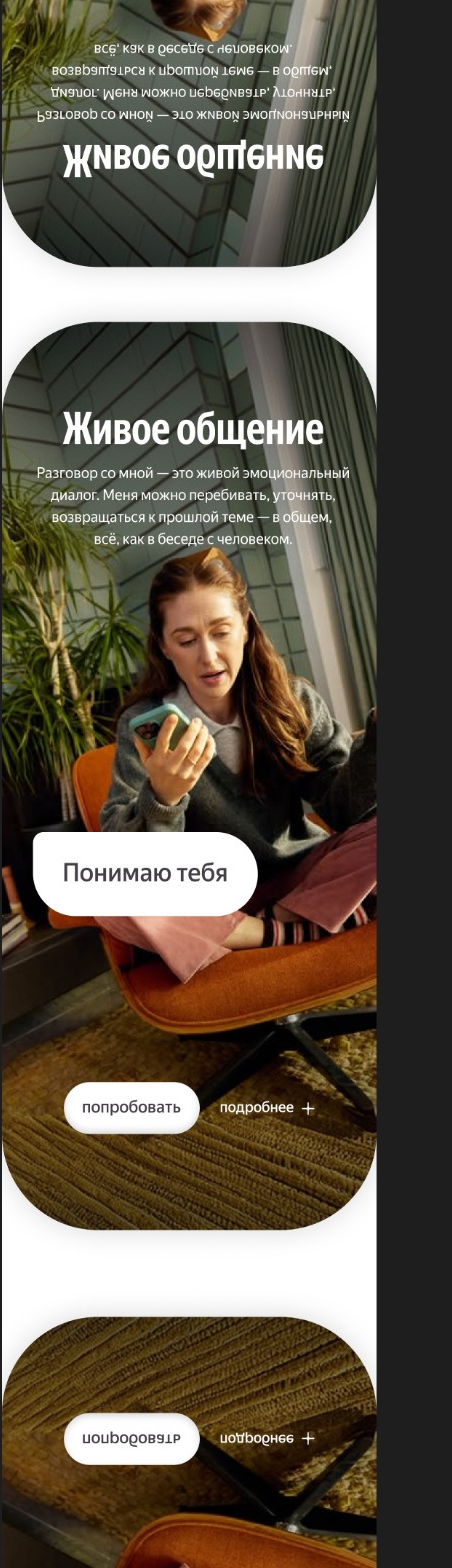
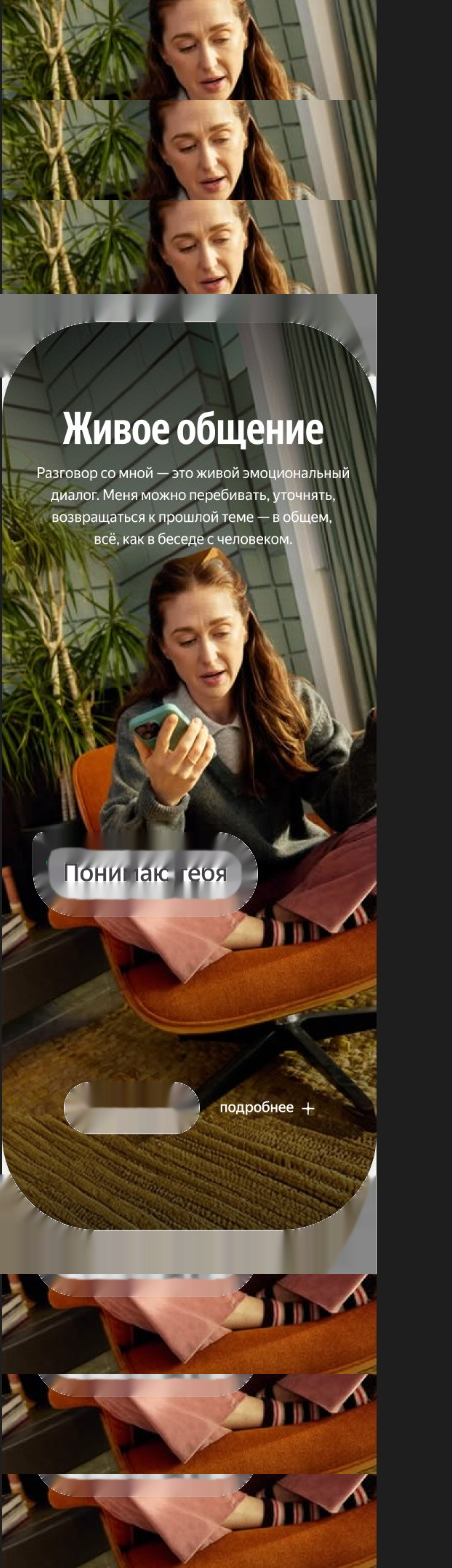
Replace the live-talk parallax photo with a photo-only asset.
Match Figma 631:35335 sizing and slow the background to 0.35 so the HTML overlays stay still.

diff --git a/styles.css b/styles.css
@@ -1180,7 +1180,7 @@ button.news-card {
   }
 }
 
-/* Figma 607:25158 — Живое общение (after cast, before Plus) */
+/* Figma 607:25158 card + 631:35335 parallax photo layer */
 .live-talk {
   position: absolute;
   left: 0;
@@ -1210,11 +1210,12 @@ button.news-card {
   position: absolute;
   left: 50%;
   top: 50%;
-  width: 112%;
-  height: 160%;
+  /* Figma 631:35335 — 836×1186 photo frame in 375×908 card */
+  width: 223%;
+  height: 131%;
   max-width: none;
   object-fit: cover;
-  object-position: center 42%;
+  object-position: 53% 45%;
   transform: translate(-50%, -50%);
   will-change: transform;
 }

diff --git a/app.js b/app.js
@@ -472,7 +472,7 @@ if (memoryPlate) {
 // Live-talk card: background photo parallax (slower than page scroll),
 // clipped by the card mask. Foreground copy/bubble/buttons stay fixed.
 (function () {
-  const FACTOR = 0.4;
+  const FACTOR = 0.35;
   const reduceMotion = window.matchMedia("(prefers-reduced-motion: reduce)");
   const cards = Array.from(document.querySelectorAll("[data-parallax-card]"));
   if (!cards.length) return;
